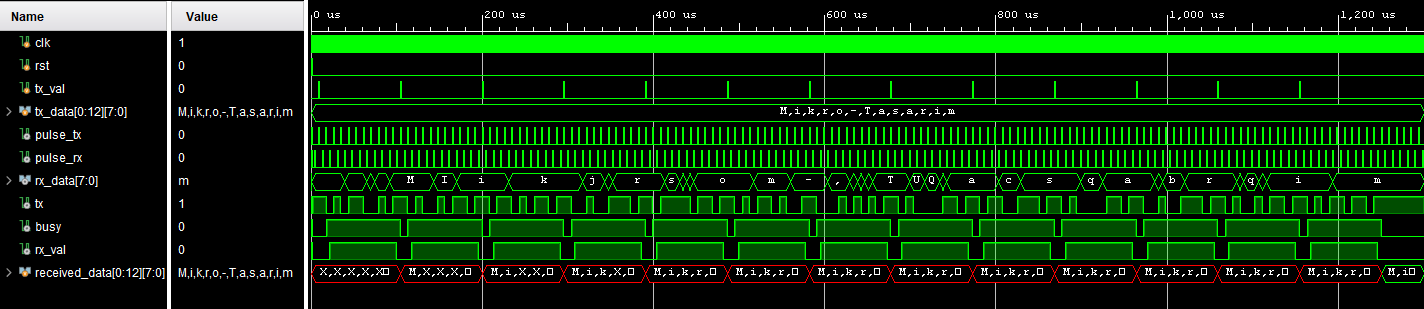
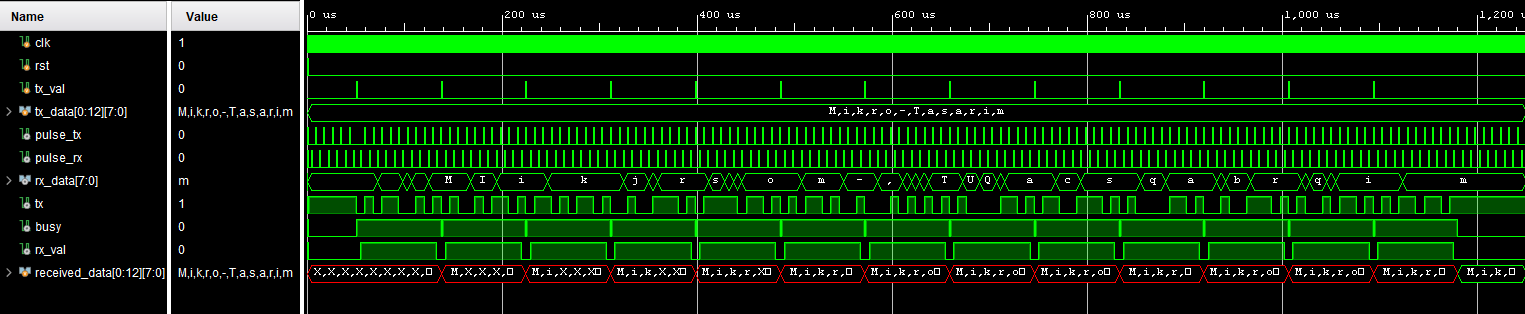
Logic changed

diff --git a/readme.md b/readme.md
@@ -20,7 +20,7 @@ For transmitting the datas, we will create a pulse signal (**pulse_tx**) that is
 ## 1.2 UART_Tx
 This module uses 5 states to transmit an 8 bit data with start and stop bits.
 In **idle** state, in every rising edge of 10 MHz clock, it checks if a **tx_val** signal exists which is a signal to initiate data transmit given by the testbench.
-If there is a **tx_val** signal in any rising edge clock, then at the next clock edge, the state becomes **start**. To be able to sample the start bit at the receiver side, we will make the **start** state begin as the **pulse_tx** becomes high. So actually until the next **pulse_tx**, the module will continue sending high signal from its **tx** port.
+If there is a **tx_val** signal in any rising edge clock, the **baudgen** is reset and at the next clock edge, the state becomes **start**. 
 From this point to the **done** state, in order to begin executing the next state, the module will wait for the **pulse_tx** signal. 
 
 **Busy** signal will be high from the **start** state to the end of the **stop** state, so that we can observe and know when the **UART_Tx** is busy. In state **transmit_data**, we will begin transmitting our data. After sending 8 bits of data, the **stop** state will begin and the module will send high signal from its **tx** port until the next **pulse_tx**. 

diff --git a/changelog.md b/changelog.md
@@ -2,3 +2,10 @@ The changes on the project will be written here.
 
 # 1.0 - 2021-06-09
 - Initial release
+
+# 1.1 - 2021-06-10
+
+### Changed
+
+- Now baudgen resets every tx_val signal rising edge.
+- readme.md is updated.
